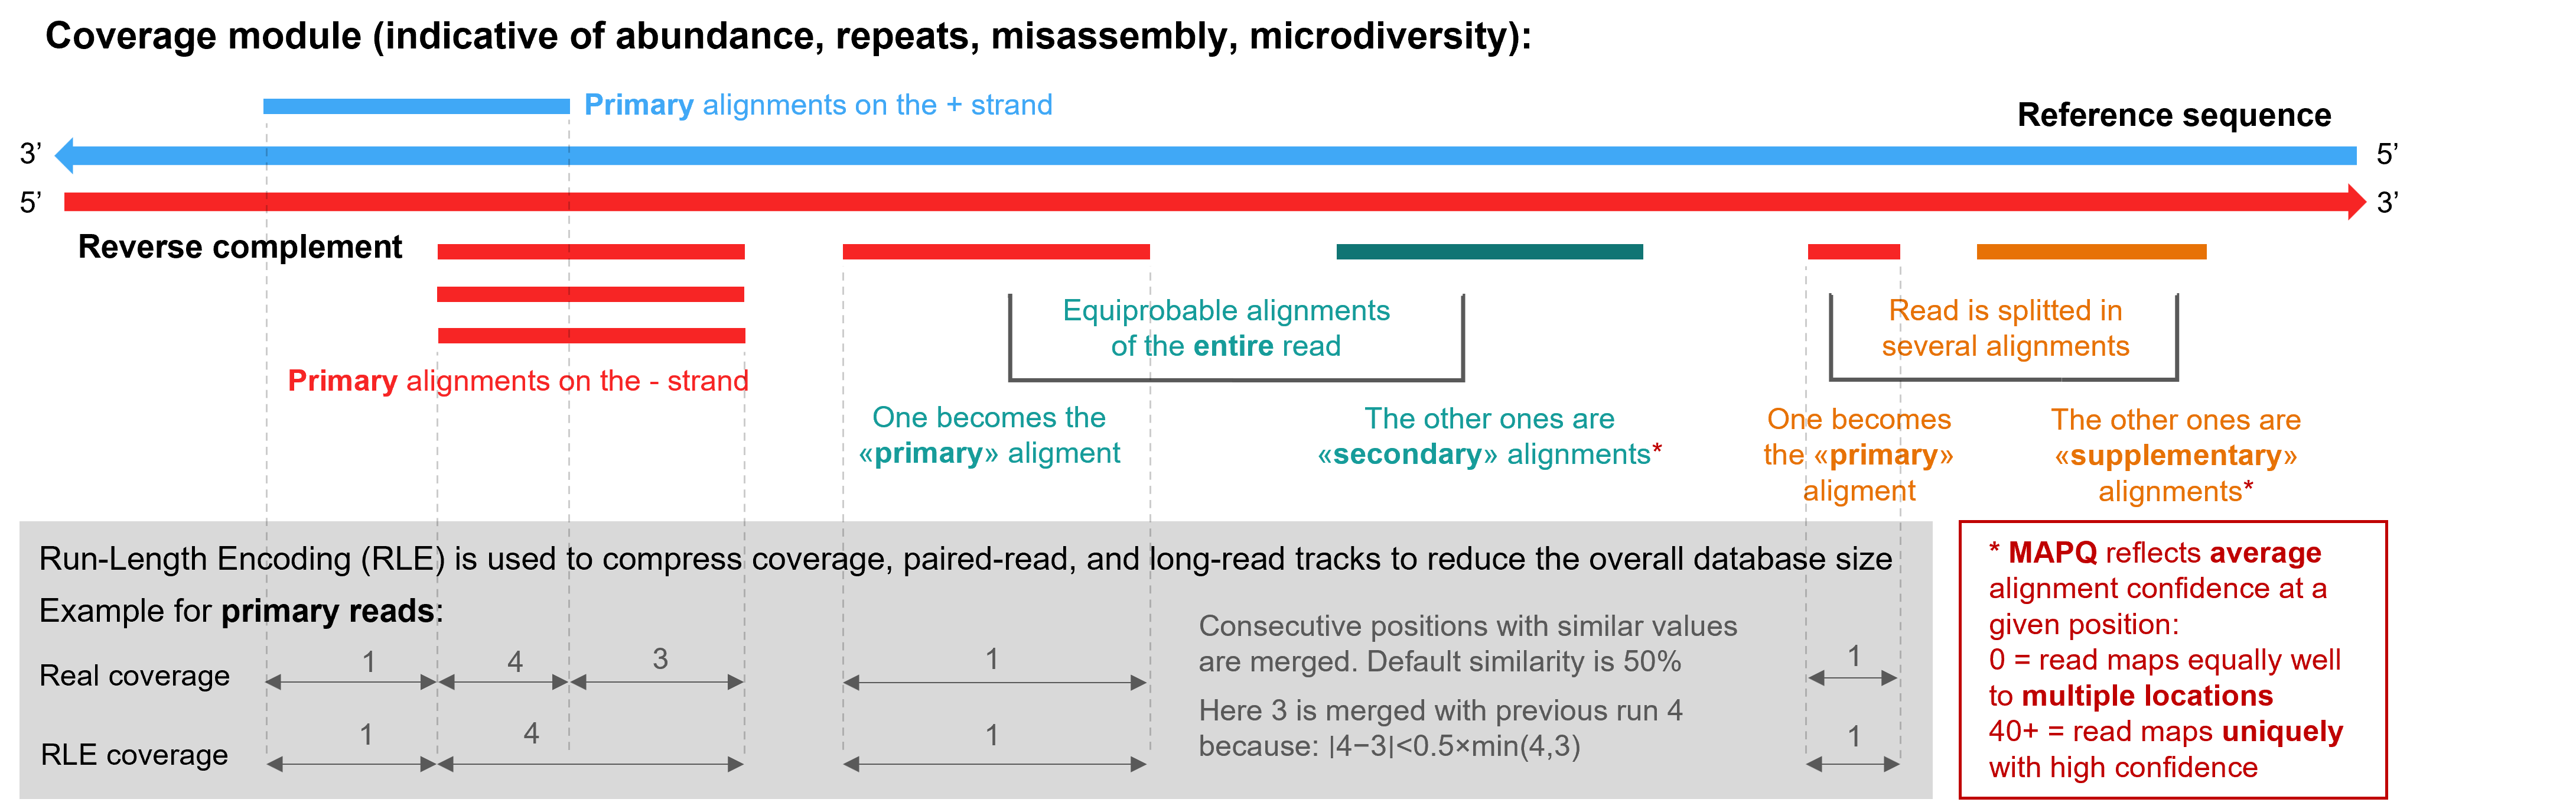
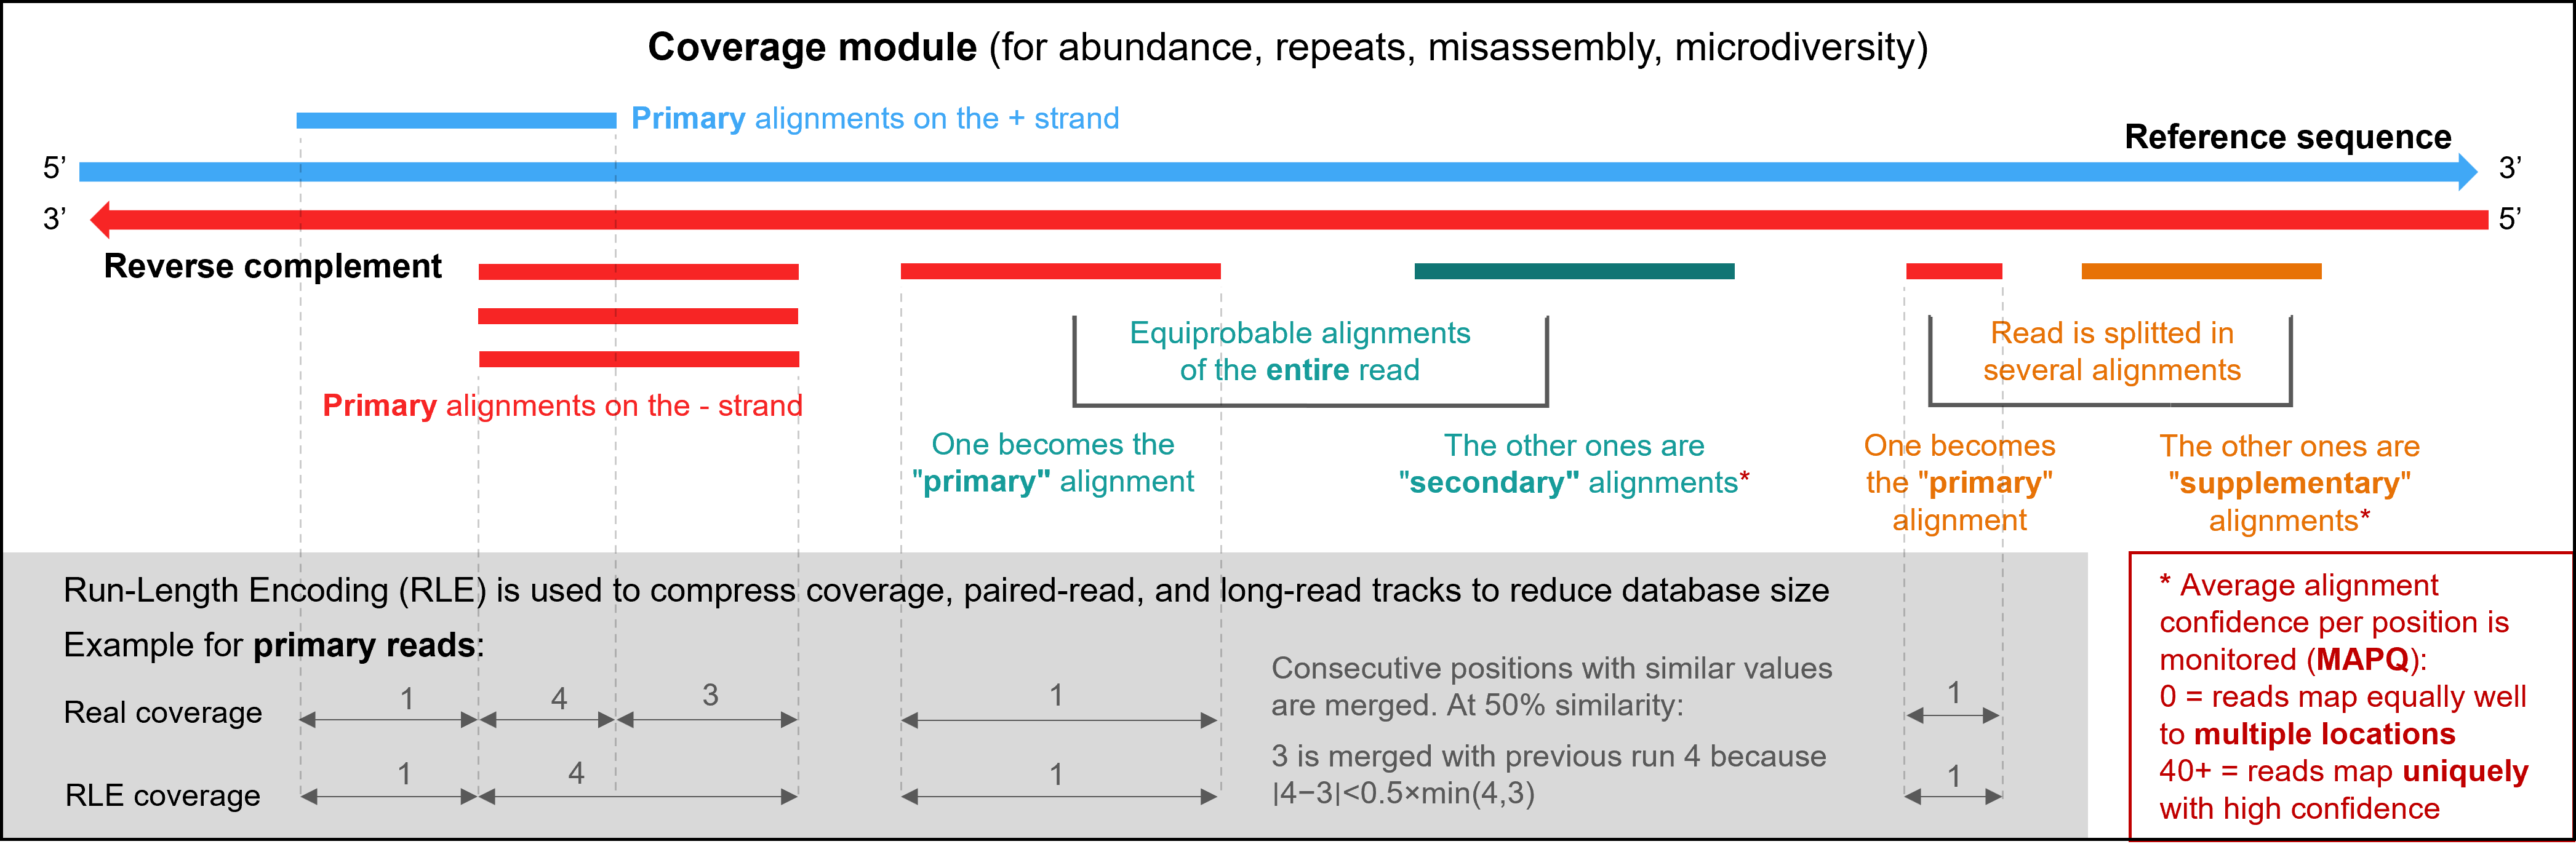
Features doc.

diff --git a/docs/FEATURES.md b/docs/FEATURES.md
@@ -2,7 +2,7 @@
 
 This document describes all features computed from the input files by theBIGbam and stored in the DuckDB database. Features are organized by **module** as they appear in the visualization interface. Within a module, each subplot displays 1 or 2 features that are plotted together.
 
-5 modules comprise mapping-derived features. Most of them are defined by the SAM/BAM standard and documented in the [SAM specification](https://samtools.github.io/hts-specs/SAMv1.pdf). You can consult it for additional information.
+6 modules comprise mapping-derived features. Most of them are defined by the SAM/BAM standard and documented in the [SAM specification](https://samtools.github.io/hts-specs/SAMv1.pdf). You can consult it for additional information.
 
 1 additional module comprises genomic features computed from the annotation or assembly file provided.
 
@@ -12,17 +12,17 @@ This document describes all features computed from the input files by theBIGbam 
 
 Features describing read alignment depth and quality across the genome.
 
-![image](images/COVERAGE_MODULE.png)
+<img title="" src="images/COVERAGE_MODULE.png" alt="image" data-align="center">
 
-| Subplot              | Feature               | Description                                                                                                                                                                                                                                                                         | Use case                                                                                                          |
-| -------------------- | --------------------- | ----------------------------------------------------------------------------------------------------------------------------------------------------------------------------------------------------------------------------------------------------------------------------------- | ----------------------------------------------------------------------------------------------------------------- |
-| Primary alignments   | Primary reads         | The number of reads covering each position, counting only primary alignments                                                                                                                                                                                                        |                                                                                                                   |
-| Alignments by strand | Strand + and strand - | Separation of primary alignments by strand (+ and -)                                                                                                                                                                                                                                | Strand bias can indicate certain library preparation artifacts or biological features like transcription          |
-| Other alignments     | Secondary             | Reads flagged as secondary (SAM flag 0x100) - alternative alignments when a read maps to multiple locations                                                                                                                                                                         | High secondary alignment counts indicate repetitive or ambiguous regions where reads could map to multiple places |
-| Other alignments     | Supplementary         | Reads flagged as supplementary (SAM flag 0x800) - chimeric alignments where different parts of the read map to different locations                                                                                                                                                  | High supplementary counts may indicate structural variants, chimeric sequences, or assembly errors                |
-| MAPQ                 | MAPQ                  | Average confidence of read alignments at each position. **Warning:** MAPQ scoring varies between aligners (BWA, Bowtie2, minimap2, etc.), See this [blog](https://sequencing.qcfail.com/articles/mapq-values-are-really-useful-but-their-implementation-is-a-mess/) for more detail | Evaluate alignment confidence variability                                                                         |
+| Subplot              | Feature        | Description                                                                                                                        | Associated to / Used for                                             |
+|:-------------------- | -------------- | ---------------------------------------------------------------------------------------------------------------------------------- | -------------------------------------------------------------------- |
+| Primary alignments   | Primary reads  | The number of reads covering each position, counting only primary alignments                                                       | Abundance per position                                               |
+| Alignments by strand | Strand + and - | Separation of primary alignments by strand (+ and -)                                                                               | Library preparation, amplification, sequencing, or mapping artifacts |
+| Other alignments     | Secondary      | Reads flagged as secondary (SAM flag 0x100) - alternative alignments when a read maps to multiple locations                        | Repetitive or ambiguous regions                                      |
+| Other alignments     | Supplementary  | Reads flagged as supplementary (SAM flag 0x800) - chimeric alignments where different parts of the read map to different locations | Structural variants, chimeric sequences                              |
+| MAPQ                 | MAPQ           | Average confidence of read alignments at each position. See the waning below though                                                | Filtering reads                                                      |
 
-**Warning:** Secondary reads and MAPQ are not realiable when using thebigbam mapping with `--circular`  option. Because this option doubles the contig length during mapping, reads that do not span the contig junction can map equally well to two positions. This results in an artificially high number of secondary alignments and reduced MAPQ values.
+**Warning:** MAPQ scoring varies between aligners (BWA, Bowtie2, minimap2, etc.), See this [blog](https://sequencing.qcfail.com/articles/mapq-values-are-really-useful-but-their-implementation-is-a-mess/) for more detail. Also MAPQ are not reliable when using thebigbam mapping with `--circular`  option. See [On mapping with circular genome support](docs/CIRCULAR_MAPPING.md) for details.
 
 ---
 
@@ -71,6 +71,8 @@ Features specific to paired-end/mate-pair sequencing data (Illumina).
 Features designed for detecting phage DNA packaging sites and terminus types. These are particularly useful for analyzing bacteriophage genomes.
 
 (see the [PhageTerm publication](https://www.nature.com/articles/s41598-017-07910-5))
+
+![image](images/TERMINI_MODULE.png)
 
 Subplot: Coverage Reduced
 

diff --git a/docs/CIRCULAR_MAPPING.md b/docs/CIRCULAR_MAPPING.md
@@ -28,13 +28,13 @@ This means reads that cross the origin of a circular genome will have their alig
 
 ## MAPQ limitation
 
-in circular mode the mapper sees the doubled reference as two distinct loci, so every read produces at least one ghost alignment that competes with the real one. The mapper therefore assigns lower MAPQ scores than the same read would receive against a single-copy reference, because MAPQ quantifies the confidence that the *reported* alignment is the only good one — and in a doubled reference there are always at least two.
+In circular mode the mapper sees the doubled reference as two distinct loci, so every read produces at least one ghost alignment that competes with the real one. The mapper therefore assigns lower MAPQ scores than the same read would receive against a single-copy reference, because MAPQ quantifies the confidence that the reported alignment is the only good one, and in a doubled reference there are always at least two.
 
-The circular-BAM conversion step removes these ghost secondary and supplementary alignments, restoring the correct read count. For reads whose *only* competing alignments were ghosts (i.e. after removal they have no remaining secondary or supplementary records), the conversion sets MAPQ to 60, which is the conventional value for a uniquely mapping read. Reads that retain legitimate secondary or supplementary alignments after ghost removal keep their original MAPQ unchanged.
+These ghost secondary and supplementary alignments are removed post-mapping, restoring the correct read count. For reads whose only competing alignments were ghosts (i.e. after removal they have no remaining secondary or supplementary records), the conversion sets MAPQ to 60, which is the conventional value for a uniquely mapping read. 
 
-Full MAPQ recalculation is not possible because both minimap2 and bwa-mem2 derive MAPQ from internal values that are never written to BAM output:
+Reads that retain legitimate secondary or supplementary alignments after ghost removal keep their original MAPQ values unchanged. In principle, their MAPQ values should be recomputed because removing ghost alignments increase mapping confidence. However, accurate MAPQ recalculation is not possible from the BAM file alone because both minimap2 and bwa-mem2 derive MAPQ from internal alignment statistics that are not recorded in the BAM output:
 
-- **minimap2** uses chaining scores (*f*₁, *f*₂) and anchor counts to compute MAPQ; these are discarded after alignment.
-- **bwa-mem2** uses chaining scores, seed coverage, and the repetitive fraction (*frac_rep*); these are likewise internal only.
+- **minimap2** uses chaining scores (*f*₁, *f*₂) and anchor counts to compute MAPQ
+- **bwa-mem2** uses chaining scores, seed coverage, and the repetitive fraction (frac_rep)
 
 The common practice of using MAPQ values to filter alignments makes this limitation frustrating. However, the impact is mitigated by the fact that MAPQ scores are inherently software-dependent and should always be interpreted with caution.

diff --git a/README.md b/README.md
@@ -276,10 +276,7 @@ ssh -L 5006:node042:5006 [email redacted]
 
 ### Web interface overview
 
-When accessing the web server (http://localhost:5006), you will be presented with a web interface:
-
-<div align="center">
-  <img src="https://raw.githubusercontent.com/bhagavadgitadu22/theBIGbam/master/docs/images/VISUALIZATION.png" alt="image" width="800" />
+When accessing the web server (http://localhost:5006), you will be presented with a web interface:  <img src="https://raw.githubusercontent.com/bhagavadgitadu22/theBIGbam/master/docs/images/VISUALIZATION.png" alt="image" width="800" />
 
 </div>
 
@@ -485,7 +482,6 @@ Run `thebigbam analysis -h` to display the list of available analysis scripts. R
 # Additional in-depth documentation pages
 
 - [Applying theBIGbam to real projects](docs/USAGE.md)
-- [On mapping with circular genome support](docs/CIRCULAR_MAPPING.md)
 - [Features](docs/FEATURES.md) TO-DO
 - [Compression](docs/COMPRESSION.md) TO-DO
 - [Filters](docs/FILTERS.md) TO-DO
@@ -495,6 +491,7 @@ Run `thebigbam analysis -h` to display the list of available analysis scripts. R
 - [Database](docs/DATABASE.md) TO-DO
 - [Visualization](docs/VISUALIZATION.md) TO-DO
 - [Plot interpretation](docs/PLOT_INTERPRETATION.md) TO-DO, discard?
+- [On mapping with circular genome support](docs/CIRCULAR_MAPPING.md)
 - [Developers note](docs/DEVELOPERS_NOTE.md) TO-DO, to merge with contributing?
 - [Contributing](CONTRIBUTING.md) TO-DO
 - Installation guide to remove?

diff --git a/docs/USAGE.md b/docs/USAGE.md
@@ -210,6 +210,8 @@ The database obtained is quite massive so we keep it stored remotely on the clus
 sbatch -q serial -N 1 -n 1 -c 8 -t 10:00:00 --wrap="thebigbam serve --db /work/river/NOMIS_VIRUS/05_MAGs/thebigbam_bacteria_mag_view.db"
 ```
 
+Such a massive database needs about 5 minutes for preloading before the webpage is ready, after which the log should print: "Server ready".
+
 We need to find the node where the job is running (here jst234) and relay it locally via ssh. For us, `ssh -N -L 5006:jst234:5006 [email redacted]` fails because the cluster firewall blocks direct access to login nodes. If you meet a similar problem you can try to jump via the login node with:
 
 ```bash